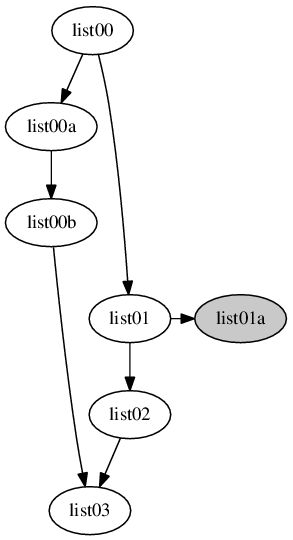
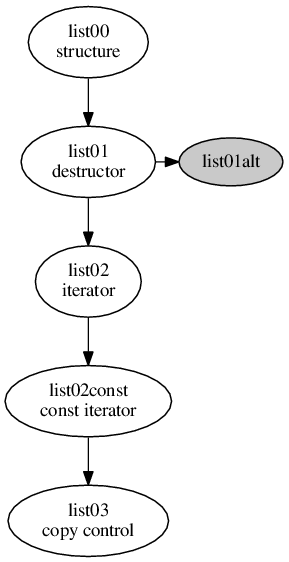
add list02const.cc

diff --git a/code/list02const.cc b/code/list02const.cc
@@ -54,8 +54,30 @@ class list
     list_node_base* node_;
   };
 
+  class const_iterator
+  {
+   public:
+    const_iterator(const list_node_base* n = nullptr) : node_(n) {}
+    const T& operator*() { return *operator->(); }
+    const T* operator->() { return &static_cast<const list_node*>(node_)->value_; }
+    const_iterator& operator++() { node_ = node_->next; return *this; }
+    const_iterator operator++(int) { const_iterator old = *this; operator++(); return old; }
+    const_iterator& operator--() { node_ = node_->prev; return *this; }
+    const_iterator operator--(int) { const_iterator old = *this; operator--(); return old; }
+    bool operator==(const_iterator rhs) const { return node_ == rhs.node_; }
+    bool operator!=(const_iterator rhs) const { return node_ != rhs.node_; }
+
+   private:
+    const list_node_base* node_;
+  };
+  // TODO: test operator==()
+
   iterator begin() { return iterator(head_.next); }
+  const_iterator begin() const { return const_iterator(head_.next); }
+  const_iterator cbegin() const { return const_iterator(head_.next); }
   iterator end() { return iterator(&head_); }
+  const_iterator end() const { return const_iterator(&head_); }
+  const_iterator cend() { return const_iterator(&head_); }
 
   // Effective Modern C++, Item 41.
   void push_front(T x)
@@ -98,6 +120,10 @@ int main()
   li.push_front(82);
 
   for (auto x : li)
+    printf("%d\n", x);
+
+  const leanstl::list<int>& lic(li);
+  for (auto x : lic)
     printf("%d\n", x);
 
   leanstl::list<std::string> ls;

diff --git a/mdp.py b/mdp.py
@@ -3,7 +3,7 @@
 # Preprocess markdown
 
 import re, sys
-import livereload
+import pyinotify, livereload
 import tornado.ioloop
 
 def include(command, out):

diff --git a/docs/list.md b/docs/list.md
@@ -2,49 +2,12 @@
 
 ![](list-tut.png)
 
-## Data Structure
-
-struct `list_node_base` and `list_node<T>`
-
-```cpp
-struct list_node_base
-{
-  list_node_base* next;
-  list_node_base* prev;
-};
-
-template <typename T>
-struct list_node : list_node_base
-{
-  T value_;
-};
-```
-
-class template `list<T>`
-
-```cpp
-template <typename T>
-class list
-{
- public:
-  list()
-  {
-    head_.next = &head_;
-    head_.prev = &head_;
-  }
-
- private:
-  list_node_base head_;
-  size_t size_ = 0;
-};
-```
+## list00: data structure
 
 ![node](listnode.png)
 
 Doubly linked list:
 ![list](list.png)
-
-## list00: object sizes
 
 list00.cc:
 ```cpp
@@ -123,15 +86,7 @@ T = std::vector<int>
      sizeof list_node: 20
 ```
 
-### list00a: `typedef`s
-
-TODO
-
-### list00b: accessors
-
-TODO
-
-## list01: `push_front`
+## list01: destructor
 
 ```cpp
 template <typename T>
@@ -400,8 +355,8 @@ int main()
 }
 ```
 
-### More tests on T
+## list02: iterator
 
-## list02: copy control
+### list02const: `const_iterator`
 
-## list03: iterator
+## list03: copy control
